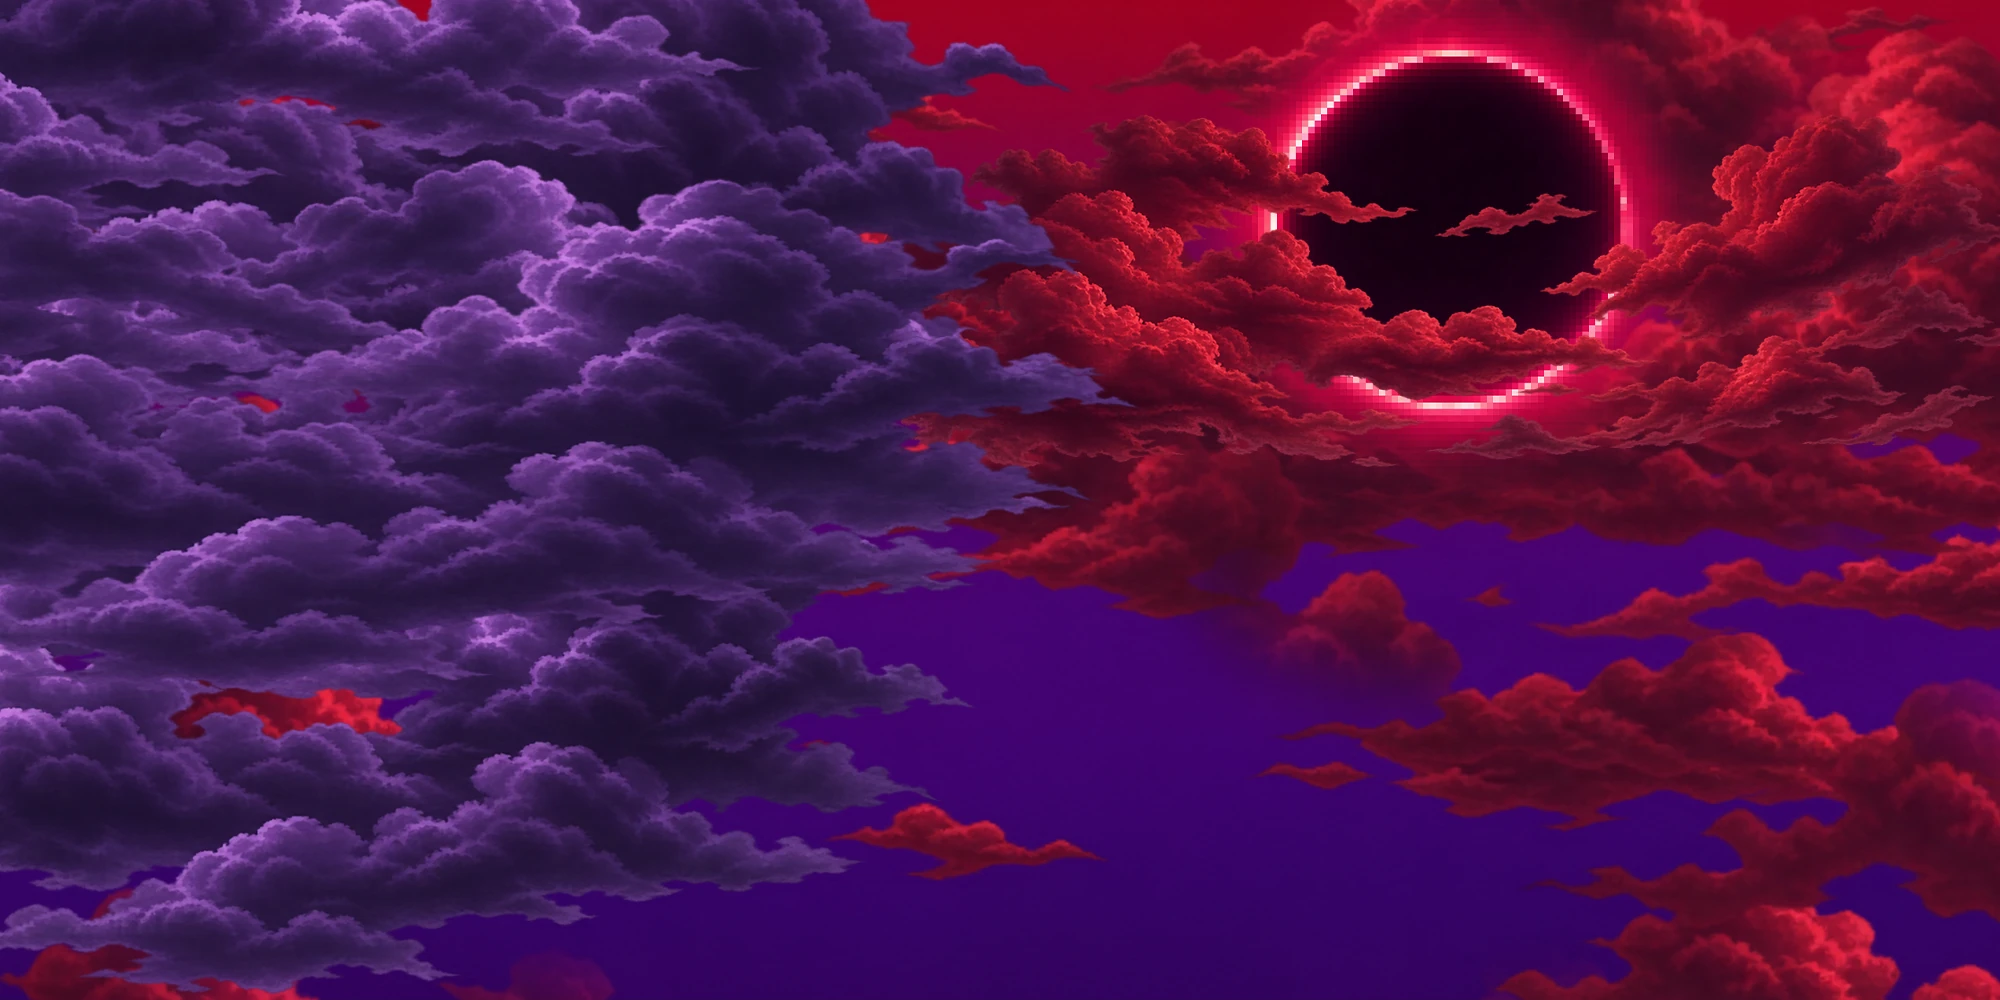
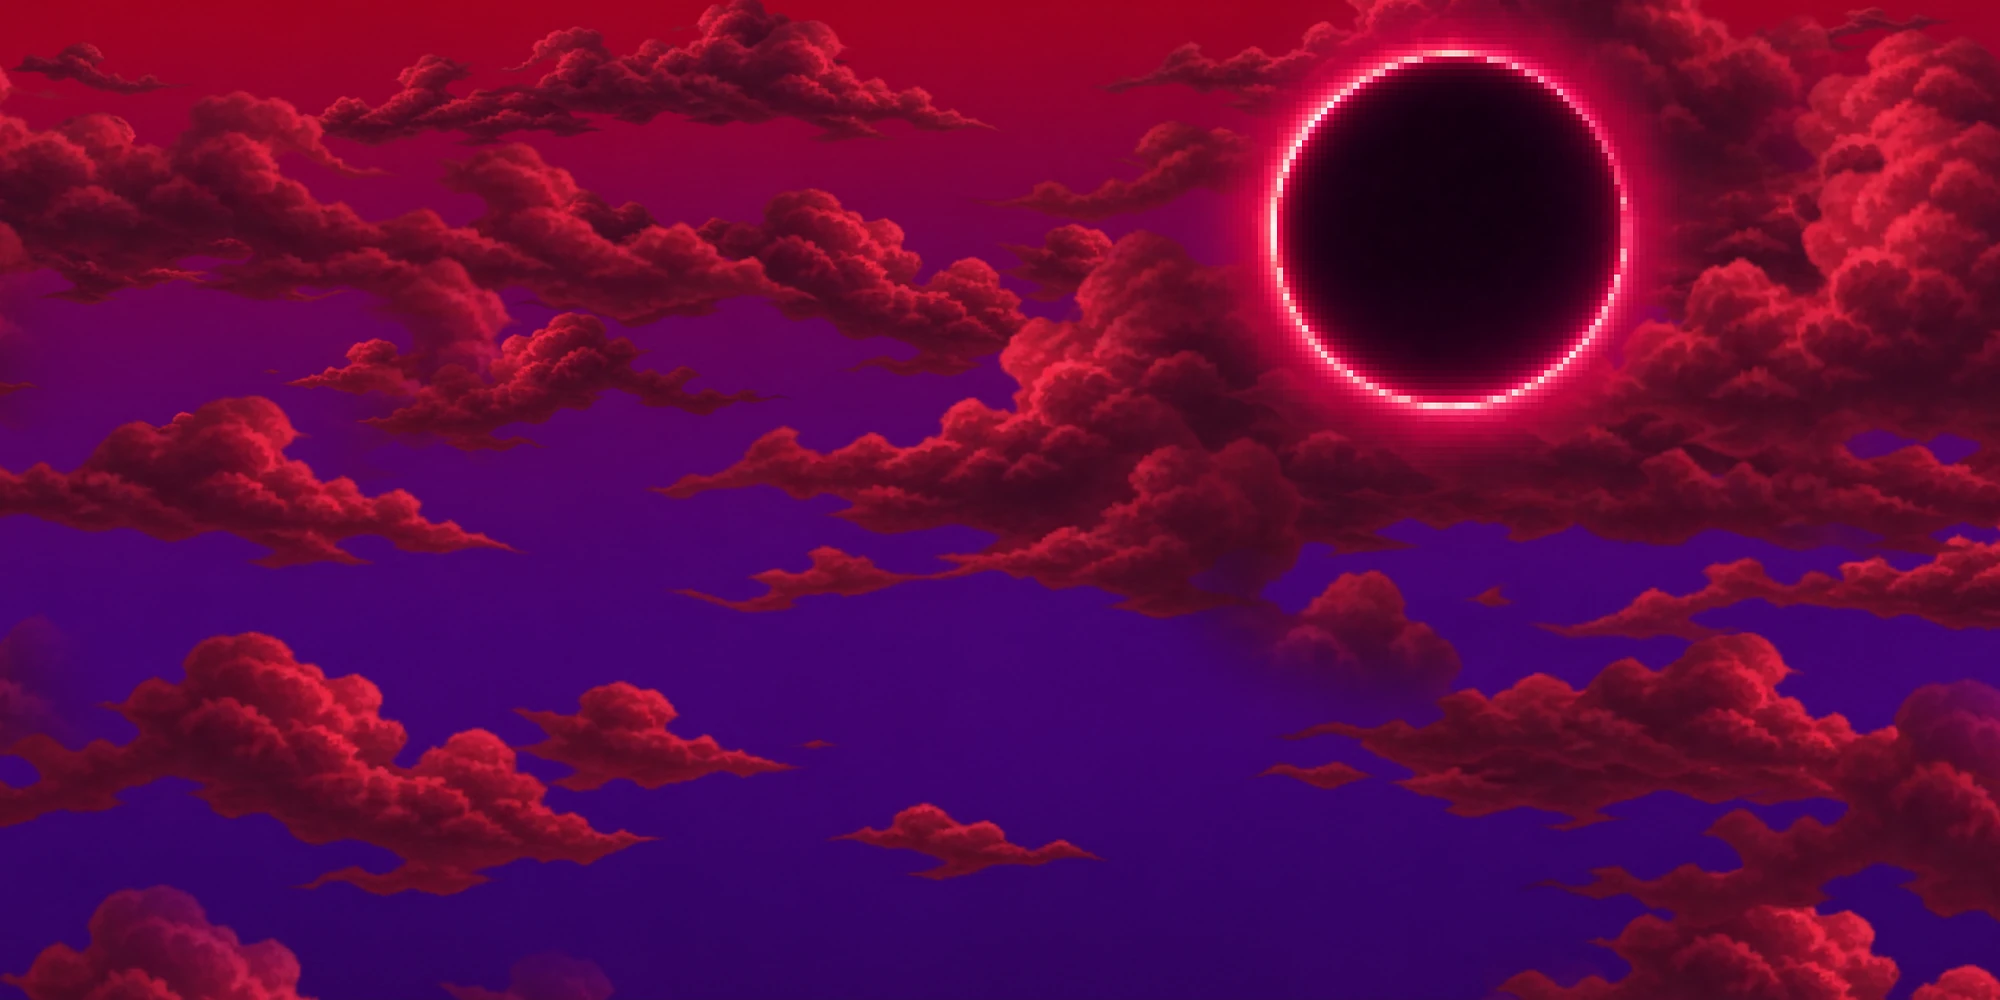
Add files via upload

diff --git a/peste-art.js b/peste-art.js
@@ -1,4 +1,4 @@
-import {framePlate,plates,marshBlend} from './paralaje.js';
+import {framePlate,plates,marshBlend,driftPlate} from './paralaje.js';
 // The Marjal is drawn behind the collision plane. Only its crusts and pools are at
 // the actual damage rectangles. Canvas textures are shared by WebGL and Canvas 2D.
 const clamp=(x,a=0,b=1)=>Math.max(a,Math.min(b,x));
@@ -174,7 +174,7 @@ function nameType(s,i){const label=(s.id+' '+s.name).toLowerCase();return /ester
 export function createPlagueArt(T,scene,plague){
  if(!plague||!Number.isFinite(plague.start)||!Number.isFinite(plague.end))return {update(){}};
  const {start,end}=plague,group=new T.Group();group.name='Marjal de la Peste · paisajes';group.visible=false;scene.add(group);
- const tile=new T.PlaneGeometry(1,1);let built=false,landscape=null,painted=null,background=null,farAspect=620/274;
+ const tile=new T.PlaneGeometry(1,1);let built=false,landscape=null,painted=null,background=null,farAspect=620/274;const skyLayers=[];
  const marks=[],fringes=[],pools=[],crusts=[];let spores,xyz,sporeP;
  function plane(map,z,order,tag){const m=new T.Mesh(tile,new T.MeshBasicMaterial({map,transparent:true,depthWrite:false,toneMapped:false}));m.position.z=z;m.renderOrder=order;m.name=tag;group.add(m);return m;}
  function build(){
@@ -184,6 +184,18 @@ export function createPlagueArt(T,scene,plague){
    tx.colorSpace=T.SRGBColorSpace;tx.magFilter=T.LinearFilter;tx.minFilter=T.LinearFilter;tx.wrapS=T.MirroredRepeatWrapping;tx.generateMipmaps=false;
    farAspect=tx.image.width/tx.image.height;landscape.material.map=tx;landscape.material.needsUpdate=true;
   },undefined,()=>{});
+  // Nubes y montañas del cielo, cada una en su propio plano. Las nubes derivan solas.
+  const sky=(url,order,spec,rate,tag)=>{
+   const m=plane(null,-8.1,order,tag);m.visible=false;m.userData.ready=false;m.userData.aspect=2;
+   new T.TextureLoader().load(url,tx=>{
+    tx.colorSpace=T.SRGBColorSpace;tx.magFilter=T.LinearFilter;tx.minFilter=T.LinearFilter;tx.wrapS=T.MirroredRepeatWrapping;tx.generateMipmaps=false;
+    m.userData.aspect=tx.image.width/tx.image.height;m.material.map=tx;m.material.needsUpdate=true;m.userData.ready=true;
+   },undefined,()=>{});
+   skyLayers.push({m,spec,rate});
+  };
+  sky('./art/fondos/peste-nubes-grandes.webp',-99,{speed:.20,lift:.13,phase:.5,height:13.4},.0040,'Nubes grandes del Marjal');
+  sky('./art/fondos/peste-montanas.webp',-98,{speed:.24,lift:.15,phase:.5,height:13.4},0,'Montañas del Marjal');
+  sky('./art/fondos/peste-nubes-pequenas.webp',-97,{speed:.28,lift:.17,phase:.5,height:13.4},.0075,'Nubes pequeñas del Marjal');
   const art=Array.from({length:4},(_,i)=>toMap(T,markCanvas(i))),reed=toMap(T,reeds());
   const sectors=plague.sectors?.length?plague.sectors:[{x:start},{x:start+(end-start)*.24},{x:start+(end-start)*.46},{x:start+(end-start)*.73}];
   for(const [i,sector] of sectors.entries()){
@@ -225,6 +237,12 @@ export function createPlagueArt(T,scene,plague){
   group.visible=f>.001&&cx<=end+vw;if(!group.visible)return;
   framePlate(landscape,cx,cy,vw,vh,travel,plates.marshSky,farAspect);
   landscape.material.opacity=f;
+  for(const {m,spec,rate} of skyLayers){
+   m.visible=m.userData.ready===true;if(!m.visible)continue;
+   framePlate(m,cx,cy,vw,vh,travel,spec,m.userData.aspect);
+   if(rate)driftPlate(m,t,rate,travel.amount??1);
+   m.material.opacity=f;
+  }
   if(painted){
     painted.visible=true;const img=painted.material.map.image;
     framePlate(painted,cx,cy,vw,vh,travel,plates.abbey,img.width/img.height);painted.material.opacity=f*.71;

diff --git a/index.html b/index.html
@@ -3,7 +3,7 @@
 <meta charset="utf-8"><meta name="viewport" content="width=device-width,initial-scale=1,viewport-fit=cover">
 <meta name="theme-color" content="#120e1c"><title>Abyss Blade · El umbral</title>
 <meta name="description" content="Acompaña a Tom desde el bosque hasta el Marjal de la Peste. Salta entre ruinas, descifra sus mecanismos y enfréntate al Mago Oscuro en Abyss Blade.">
-<link rel="stylesheet" href="./style.css?v=fondos3"><link rel="stylesheet" href="./peste.css"><link rel="stylesheet" href="./codice-marco.css"><link rel="stylesheet" href="./codice-misiones.css"><link rel="stylesheet" href="./carta-faros.css"><link rel="stylesheet" href="./atlas-paginas.css"><link rel="stylesheet" href="./perfiles.css"><link rel="stylesheet" href="./forja.css"></head>
+<link rel="stylesheet" href="./style.css?v=fondos4"><link rel="stylesheet" href="./peste.css"><link rel="stylesheet" href="./codice-marco.css"><link rel="stylesheet" href="./codice-misiones.css"><link rel="stylesheet" href="./carta-faros.css"><link rel="stylesheet" href="./atlas-paginas.css"><link rel="stylesheet" href="./perfiles.css"><link rel="stylesheet" href="./forja.css"></head>
 <body><main id="stage">
  <div id="view"></div><div id="cave-veil" aria-hidden="true" hidden></div><div class="lens"></div>
  <div id="hud" hidden>
@@ -16,4 +16,4 @@
  <section id="overlay" aria-label="Menú del juego"></section>
  <section id="cinematic" aria-label="Cinemática de la espada" hidden><div class="cine-top"></div><div class="cine-bottom"><span id="cine-caption">Santuario del Eco</span><button id="skip">Saltar escena · J</button></div></section>
  <div id="flash"></div>
-</main><script type="importmap">{"imports":{"./paralaje.js":"./paralaje.js?v=fondos3","./world.js":"./world.js?v=fondos3","./peste-art.js":"./peste-art.js?v=fondos3"}}</script><script type="module" src="./main.js?v=fondos3"></script></body></html>
+</main><script type="importmap">{"imports":{"./paralaje.js":"./paralaje.js?v=fondos4","./world.js":"./world.js?v=fondos4","./peste-art.js":"./peste-art.js?v=fondos4"}}</script><script type="module" src="./main.js?v=fondos4"></script></body></html>

diff --git a/world.js b/world.js
@@ -1,4 +1,4 @@
-import {framePlate,plates} from './paralaje.js';
+import {framePlate,plates,driftPlate} from './paralaje.js';
 import {roadX} from './main-road.js';
 // The old scenery was painted in the unextended road's coordinates. Register each
 // landmark against today's terrain, including both feet of a freestanding arch.
@@ -96,6 +96,15 @@ export function createWorld(THREE, scene, {platforms=[], hazards=[], width=104, 
     abyss.material.needsUpdate=true;
     abyssTex=loaded;
   });
+  // Nubes del abismo: dos capas propias que derivan solas, cada una a su ritmo y con su paralaje.
+  const cloudLayers=[];
+  const cloud=(url,z,spec,rate)=>{
+    const m=plane(null,0,0,z,20,12,{opacity:0});m.visible=false;
+    loadLandscape(url,loaded=>{m.material.map=loaded;m.material.needsUpdate=true;m.userData.aspect=loaded.userData.aspect;m.userData.ready=true;});
+    cloudLayers.push({m,spec,rate});
+  };
+  cloud('./art/fondos/abismo-nubes-rojas.webp',-23.4,{speed:.26,lift:.16,phase:.5,height:12.4},.0035);
+  cloud('./art/fondos/abismo-nubes-moradas.webp',-22.8,{speed:.33,lift:.20,phase:.5,height:12.4},-.0055);
 
   const oldEnd=plague?.start??width;
   const settle=(x,y=0,half=0)=>sceneryAnchor(platforms,x,y,half);
@@ -417,6 +426,12 @@ export function createWorld(THREE, scene, {platforms=[], hazards=[], width=104, 
     if(abyss.visible){
       abyss.material.opacity=c*c*(3-2*c);
       framePlate(abyss,cameraX,cameraY,viewWidth,viewHeight,travel,plates.eclipse,abyssTex.userData.aspect);
+    }
+    for(const {m,spec,rate} of cloudLayers){
+      m.visible=abyss.visible&&m.userData.ready===true;if(!m.visible)continue;
+      m.material.opacity=abyss.material.opacity;
+      framePlate(m,cameraX,cameraY,viewWidth,viewHeight,travel,spec,m.userData.aspect);
+      driftPlate(m,time,rate,travel.amount??1);
     }
     ambient.position.x=cameraX+viewWidth*.16;
     ambient.position.y=cameraY+viewHeight*.18;

diff --git a/paralaje.js b/paralaje.js
@@ -70,6 +70,12 @@ export function framePlate(mesh,cx,cy,vw,vh,travel,spec,aspect=1){
   texture.updateMatrix();
   mesh.position.x=cx;mesh.position.y=cy;mesh.scale.set(w,h,1);
 }
+// Deriva lenta de las nubes: se suma al desplazamiento por paralaje que ya fijó framePlate.
+// "amount" es la fuerza del paralaje (0 en modo Fijo o con movimiento reducido): sin paralaje, las nubes no se mueven.
+export function driftPlate(mesh,t,rate,amount=1){
+  const tx=mesh.material.map;if(!tx)return;
+  tx.offset.x+=(t*rate*amount)%2;tx.updateMatrix();
+}
 export function marshBlend(cx,start){return Number.isFinite(start)?smooth((cx-start+3)/7):0;}
 export function regionWeights(cave,cyan,marsh){
   const underground=clamp(cave+cyan),land=1-clamp(marsh);
@@ -84,8 +90,8 @@ const fotos={
   abismo:['./art/fondos/abismo-medio.webp','./art/fondos/abismo-cerca.webp'],
   marjal:['./art/fondos/peste-medio.webp','./art/fondos/peste-cerca.webp']
 };
-// Opacidad de cada plano (medio, cerca): el cercano es más tenue para no tapar las plataformas.
-const fotoOpacidad={bosque:[.95,.70],abismo:[.95,.72],marjal:[.95,.66]};
+// Opacidad de cada plano (medio, cerca). Al 100 % los árboles y el esqueleto se ven sólidos.
+const fotoOpacidad={bosque:[1,1],abismo:[1,1],marjal:[1,1]};
 export function createDepthBands(T,scene){
   const geometry=new T.PlaneGeometry(1,1),layers=new Map(),loader=new T.TextureLoader();
   function buildPhoto(kind){
